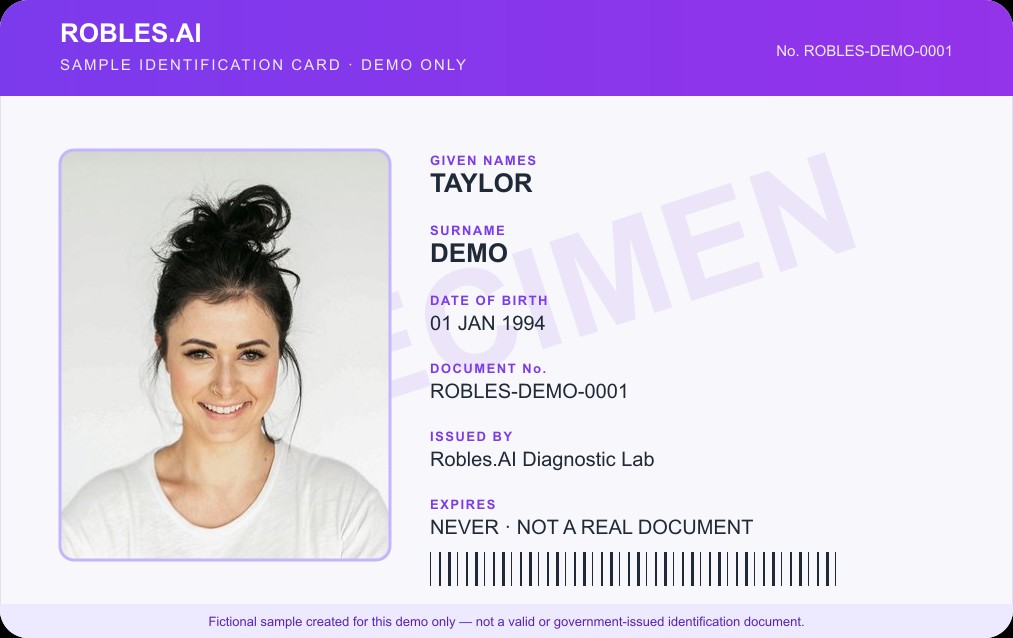
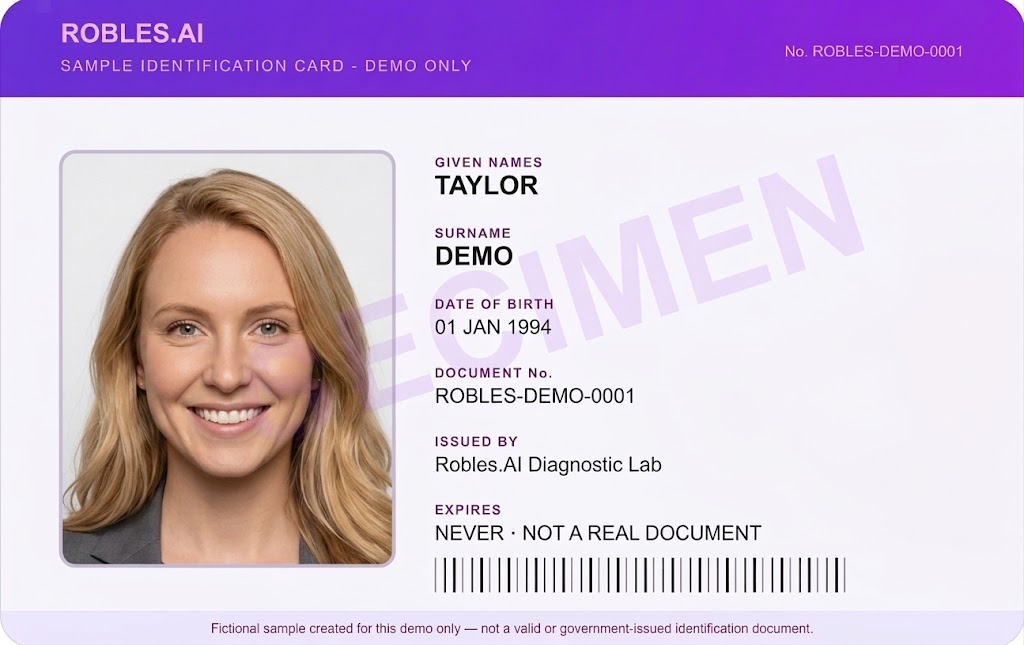
feat(try-identity): refactor to use ApiCallLog component and add request timing
- Replace JsonHighlight with ApiCallLog for consistent request/response display
- Add HTTP status, timing metrics, and structured API call tracking
- Update sample images with enhanced versions
- Track GET polling calls to status endpoint with performance metrics

diff --git a/src/pages/TryIdentity.tsx b/src/pages/TryIdentity.tsx
@@ -2,7 +2,7 @@ import { useState, useEffect, useRef } from "react";
 import { Button } from "@/components/ui/button";
 import { toast } from "@/hooks/use-toast";
 import { v4 as uuidv4 } from "uuid";
-import { AnimatePresence, motion, LayoutGroup } from "framer-motion";
+import { AnimatePresence, motion } from "framer-motion";
 import {
   Fingerprint,
   Info,
@@ -30,7 +30,7 @@ import { useTranslation } from "react-i18next";
 import { BusinessCase } from "@/components/demo/BusinessCase";
 import { SavingsCalculator } from "@/components/demo/SavingsCalculator";
 import { useDemoTracking } from "@/components/demo/business";
-import { JsonHighlight } from "@/components/demo/JsonHighlight";
+import { ApiCallLog, type ApiCallEntry } from "@/components/demo/ApiCallLog";
 import { InfoTip } from "@/components/demo/InfoTip";
 import { HowItWorks, StatusPill, TechCard, type StatusTone } from "@/components/demo/DemoKit";
 
@@ -91,6 +91,17 @@ function redactForLog(response: any): any {
   } catch {
     return response;
   }
+}
+
+interface ApiCall {
+  key: string;
+  method: "GET" | "POST";
+  url: string;
+  httpStatus: number;
+  ms: number;
+  at: number;
+  request?: unknown;
+  response: unknown;
 }
 
 type StatusKey =
@@ -209,7 +220,7 @@ export default function TryIdentity() {
   const [status, setStatus] = useState<string | null>(null);
   const [result, setResult] = useState<any>(null);
   const [payloadPreview, setPayloadPreview] = useState<any>(null);
-  const [queryHistory, setQueryHistory] = useState<any[]>([]);
+  const [queryHistory, setQueryHistory] = useState<ApiCall[]>([]);
   const [modalImage, setModalImage] = useState<string | null>(null);
   const [callbackUrl, setCallbackUrl] = useState(() => `${window.location.origin}/webhook/${uuidv4()}`);
   const [sidePanel, setSidePanel] = useState<"results" | "log">("results");
@@ -306,13 +317,25 @@ export default function TryIdentity() {
     const interval = setInterval(async () => {
       try {
         const url = STATUS_ENDPOINT(requestId);
+        const started = performance.now();
         const res = await fetch(url);
         const data = await res.json();
+        const ms = performance.now() - started;
         setStatus(data.data.status);
         setResult(data.data);
 
-        const newEntry = { url, response: redactForLog(data), key: uuidv4() };
-        setQueryHistory((prev) => [newEntry, ...prev]);
+        setQueryHistory((prev) => [
+          {
+            key: uuidv4(),
+            method: "GET",
+            url,
+            httpStatus: res.status,
+            ms,
+            at: Date.now(),
+            response: redactForLog(data),
+          },
+          ...prev,
+        ]);
 
         if (["completed", "completed_with_errors"].includes(data.data.status)) {
           trackComplete({ status: data.data.status });
@@ -400,28 +423,39 @@ export default function TryIdentity() {
       };
 
       // Show a truncated preview in the log (base64 strings are huge).
-      setPayloadPreview({
+      const preview = {
         faceImageBase64: `${faceImageBase64.slice(0, 48)}… (${faceImageBase64.length} chars)`,
         cardIdImageBase64: `${cardIdImageBase64.slice(0, 48)}… (${cardIdImageBase64.length} chars)`,
         callback: callbackUrl,
-      });
+      };
+      setPayloadPreview(preview);
 
+      const started = performance.now();
       const response = await fetch(VERIFY_ENDPOINT, {
         method: "POST",
         headers: { "Content-Type": "application/json" },
         body: JSON.stringify(payload),
       });
+      const data = await response.json().catch(() => ({}));
+      const postCall: ApiCall = {
+        key: uuidv4(),
+        method: "POST",
+        url: VERIFY_ENDPOINT,
+        httpStatus: response.status,
+        ms: performance.now() - started,
+        at: Date.now(),
+        request: preview,
+        response: data,
+      };
+      setQueryHistory([postCall]);
 
       if (!response.ok) {
-        const errorData = await response.json();
-        throw new Error(errorData.message || `Error HTTP ${response.status}`);
+        throw new Error(data.message || `Error HTTP ${response.status}`);
       }
 
-      const data = await response.json();
       setRequestId(data.data.id);
       setStatus(data.data.status);
       setSubmitted(true);
-      setQueryHistory([{ url: VERIFY_ENDPOINT, response: data, key: uuidv4() }]);
       setSidePanel("results");
 
       toast({ title: t("try-identity.verify_sent"), description: `ID: ${data.data.id}`, variant: "success" });
@@ -473,6 +507,24 @@ export default function TryIdentity() {
   };
 
   const statusMeta = status ? STATUS_META[status as StatusKey] : null;
+
+  const callActive = loading || (submitted && !["completed", "completed_with_errors", "failed"].includes(status ?? ""));
+  const callFailed = status === "failed" || queryHistory.some((c) => c.httpStatus >= 400);
+  const logCalls: ApiCallEntry[] = queryHistory.map((c) => {
+    const apiStatus: string | undefined = (c.response as any)?.data?.status;
+    const meta = apiStatus ? STATUS_META[apiStatus as StatusKey] : undefined;
+    return {
+      key: c.key,
+      method: c.method,
+      url: c.url,
+      status: c.httpStatus,
+      ms: c.ms,
+      at: c.at,
+      request: c.request,
+      response: c.response,
+      chips: apiStatus ? [{ label: apiStatus, className: meta?.tone, dot: meta?.dot ?? "bg-gray-400" }] : undefined,
+    };
+  });
   const showResult =
     result && ["partially_completed", "completed", "completed_with_errors", "failed"].includes(result.status);
 
@@ -682,7 +734,10 @@ export default function TryIdentity() {
             </div>
 
             {/* ── Right: result / raw API log ───────────────────────────────── */}
-            <div className="flex min-h-0 min-w-0 flex-col border-t border-gray-100 lg:col-span-2 lg:border-t-0">
+            {/* On lg the left column sets the row height; this panel fills it and scrolls
+                instead of growing when a log entry is expanded. */}
+            <div className="relative min-w-0 border-t border-gray-100 lg:col-span-2 lg:border-t-0">
+              <div className="flex flex-col lg:absolute lg:inset-0">
               <div role="tablist" className="flex h-[51px] shrink-0 items-center gap-1 border-b border-gray-100 px-3">
                 {([
                   { id: "results", icon: Sparkles, label: t("try-identity.tab_results") },
@@ -711,7 +766,11 @@ export default function TryIdentity() {
                 ))}
               </div>
 
-              <div className="max-h-[640px] overflow-x-hidden overflow-y-auto p-5 lg:max-h-none">
+              <div
+                className={`scrollbar-thin max-h-[640px] overflow-x-hidden overflow-y-auto py-5 pl-5 pr-3.5 lg:max-h-none lg:min-h-0 lg:flex-1 ${
+                  sidePanel === "log" ? "flex flex-col" : ""
+                }`}
+              >
                 {sidePanel === "results" ? (
                   <>
                     {/* Verification progress: lives at the top of the result panel now,
@@ -861,46 +920,30 @@ export default function TryIdentity() {
                     </div>
                   )}
                   </>
-                ) : queryHistory.length === 0 ? (
-                  <div className="flex h-full flex-col items-center justify-center py-8 text-center">
-                    <img src="/robly-avatar/robly-standby.svg" alt="" className="mb-2 h-24 w-24 opacity-50" />
-                    <p className="flex items-center gap-1.5 text-sm font-semibold text-gray-600">
-                      {t("try-identity.log_empty_title")}
-                      <InfoTip text={t("try-identity.tip_log")} hoverColor={TIP_HOVER} />
-                    </p>
-                    <p className="mt-1 max-w-xs text-sm text-gray-400">{t("try-identity.log_empty")}</p>
-                  </div>
                 ) : (
-                  <LayoutGroup>
-                    <AnimatePresence initial={false}>
-                      {queryHistory.map((entry) => (
-                        <motion.div
-                          key={entry.key}
-                          layout
-                          initial={{ opacity: 0, y: -16 }}
-                          animate={{ opacity: 1, y: 0 }}
-                          exit={{ opacity: 0, y: 16 }}
-                          transition={{ duration: 0.3 }}
-                          className="mb-4"
-                        >
-                          <div className="mb-1.5 flex items-center gap-2">
-                            <span
-                              className={`rounded px-1.5 py-0.5 text-[10px] font-bold uppercase tracking-wide ${
-                                entry.url.includes("verify-id")
-                                  ? "bg-amber-100 text-amber-700"
-                                  : "bg-sky-100 text-sky-700"
-                              }`}
-                            >
-                              {entry.url.includes("verify-id") ? "POST" : "GET"}
-                            </span>
-                            <span className="break-all font-mono text-xs text-violet-600">{entry.url}</span>
-                          </div>
-                          <JsonHighlight data={entry.response} />
-                        </motion.div>
-                      ))}
-                    </AnimatePresence>
-                  </LayoutGroup>
+                  <ApiCallLog
+                    calls={logCalls}
+                    active={callActive}
+                    failed={callFailed}
+                    activeDescription={
+                      queryHistory.length === 0
+                        ? serviceStatus === "warming"
+                          ? t("try-identity.log_call_warming")
+                          : t("try-identity.log_call_sending")
+                        : t("try-identity.log_call_polling")
+                    }
+                    empty={{
+                      title: (
+                        <>
+                          {t("try-identity.log_empty_title")}
+                          <InfoTip text={t("try-identity.tip_log")} hoverColor={TIP_HOVER} />
+                        </>
+                      ),
+                      description: t("try-identity.log_empty"),
+                    }}
+                  />
                 )}
+              </div>
               </div>
             </div>
           </div>
